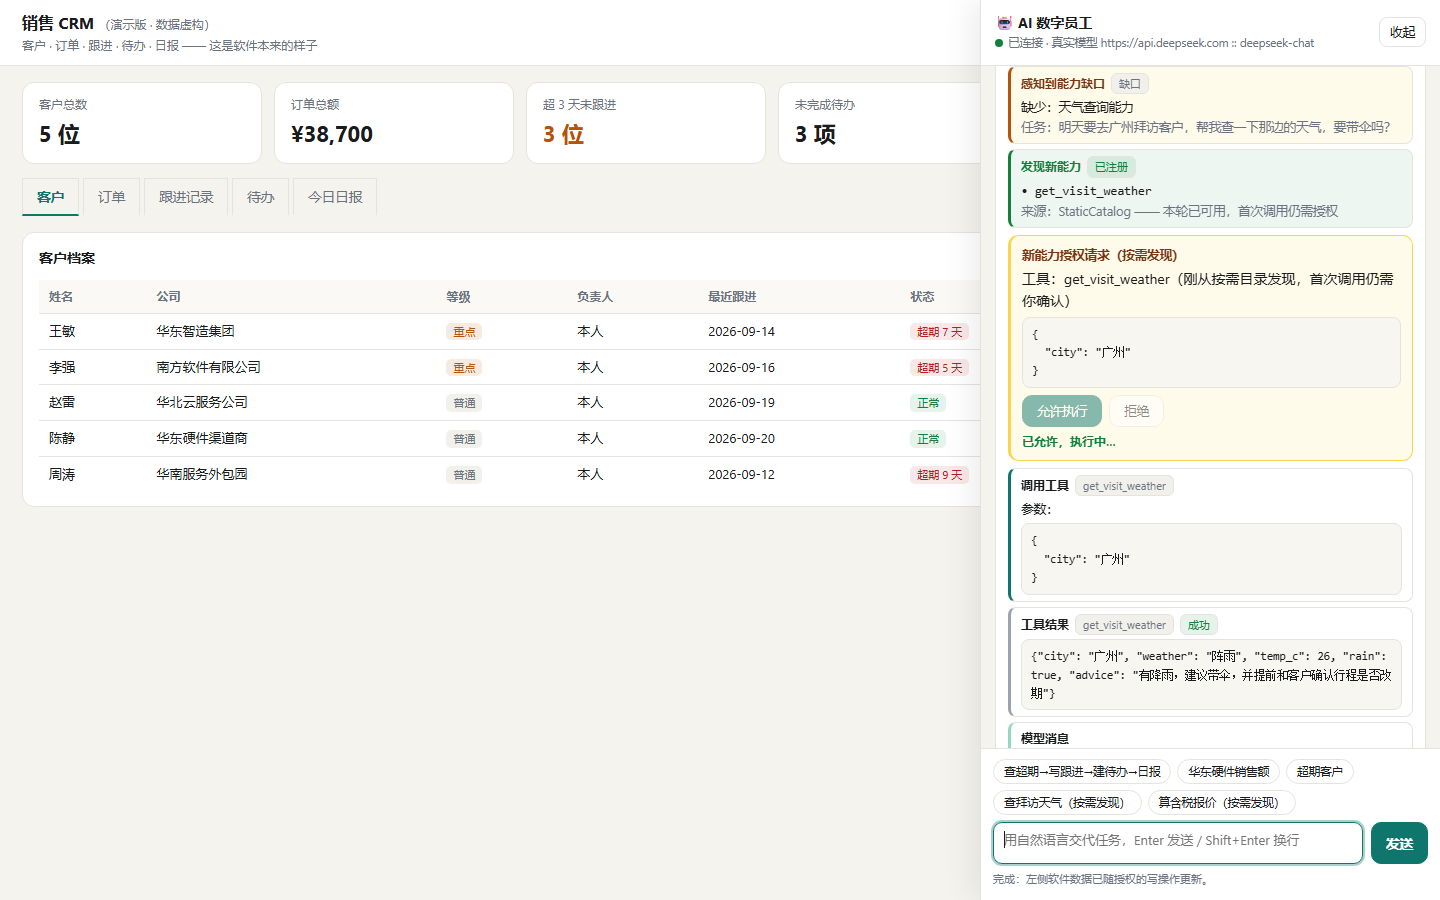
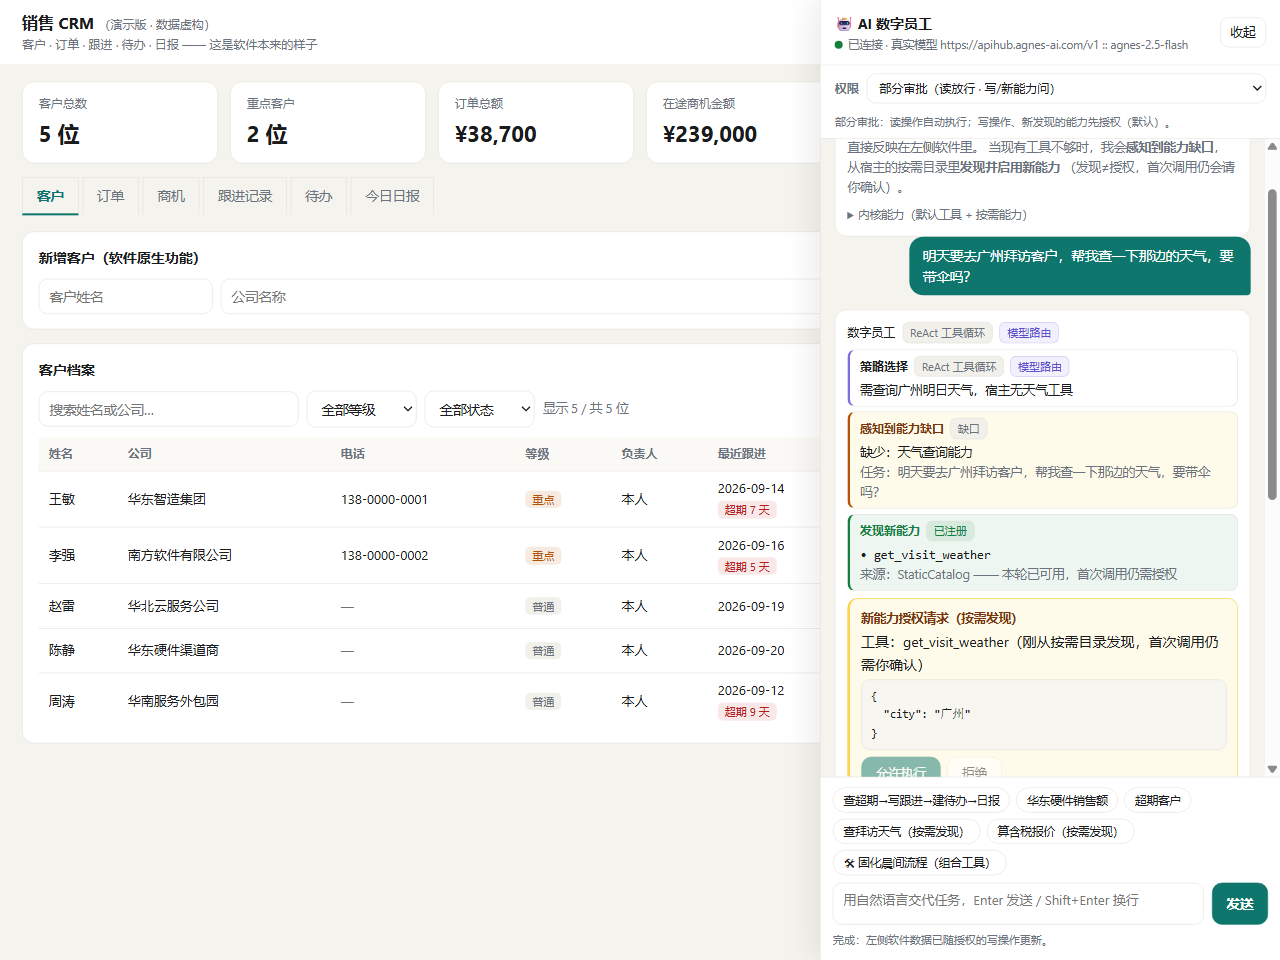
docs(host_e): 六视图/18 工具口径同步并更新门面图
- README、上海作品介绍、演示视频脚本：五视图改为六视图，12 工具(8读4写)改为 18 工具(10读8写)
- 重截 hoste-native（客户页新门面：6 KPI、筛选、编辑）与 hoste-discovery（Agnes 真实模型发现闭环）
- CHANGELOG 新增宿主 E 产品化增强条目
- 杭州冻结材料保持原样不动；上海作品介绍 PDF 已在 docs/exports 重建（不入库）

diff --git a/docs/competitions/shanghai/作品介绍.md b/docs/competitions/shanghai/作品介绍.md
@@ -86,9 +86,9 @@ YAI Agent Core（进程内库，内核本体零第三方硬依赖，dependencies
 | host_e 销售 CRM | 完整软件 | 零 AI 依赖可独立运行的菜单软件，同一业务对象零改造嵌入内核 |
 | host_f 能力发现 | 按需成长 | 离线确定性演示"缺口→发现→注册→本轮可用"，无需 Key |
 
-**host_e 是"存量软件零改造嵌入"的关键证据**：`crm_app.py` 是一个不导入任何 yai_core 的完整 CRM（12 个业务方法，8 读 4 写，JSON 持久化，菜单 CLI 与网页界面）；嵌入时把同一个 `SalesCrm` 对象交给 `AgentCore.auto`，唯一的嵌入点是 `agent_bridge.py`（业务文件零 yai_core 导入）——应用内置 Core 开关，可一键对比"有无 Core"；权限三档可切换，读操作自动执行、写操作弹授权，一句"查超期客户 → 写跟进 → 建待办 → 出日报"由内核自动规划并执行，模型还能把现有工具编排成组合工具，结果实时反映在原生界面。它同时提供终端与纯标准库实现的网页工作台（`http.server` + SSE，零第三方依赖），打开首先是软件本来的样子，AI 是可收起的右侧抽屉。
+**host_e 是"存量软件零改造嵌入"的关键证据**：`crm_app.py` 是一个不导入任何 yai_core 的完整 CRM（18 个业务方法，10 读 8 写，JSON 持久化，菜单 CLI 与网页界面）；嵌入时把同一个 `SalesCrm` 对象交给 `AgentCore.auto`，唯一的嵌入点是 `agent_bridge.py`（业务文件零 yai_core 导入）——应用内置 Core 开关，可一键对比"有无 Core"；权限三档可切换，读操作自动执行、写操作弹授权，一句"查超期客户 → 写跟进 → 建待办 → 出日报"由内核自动规划并执行，模型还能把现有工具编排成组合工具，结果实时反映在原生界面。它同时提供终端与纯标准库实现的网页工作台（`http.server` + SSE，零第三方依赖），打开首先是软件本来的样子，AI 是可收起的右侧抽屉。
 
-![图 1：销售 CRM 原生界面——不依赖 Core 也完整可用（客户 / 订单 / 跟进 / 待办 / 日报五个视图，数据均为虚构）](../../assets/hoste-native.png)
+![图 1：销售 CRM 原生界面——不依赖 Core 也完整可用（客户 / 订单 / 商机 / 跟进 / 待办 / 日报六个视图，数据均为虚构）](../../assets/hoste-native.png)
 
 ![图 2：同一 CRM 嵌入 Core 后，右侧 AI 抽屉感知能力缺口（琥珀）→ 按需发现天气工具（绿）→ 新能力授权（黄）→ 调用，左侧原生 CRM 同框联动](../../assets/hoste-discovery.png)
 

diff --git a/CHANGELOG.md b/CHANGELOG.md
@@ -12,6 +12,7 @@
 - **随包发布零依赖确定性模型 `ScriptedModel`**（`yai_core.llm`）：`pip install` 后无需 API Key、不联网即可在 30 秒内验证内核已正确嵌入并跑通工具调用；README 新增"路线 A：零 Key 验证嵌入"，并有 `tests/test_quickstart.py` 作为可执行回归。
 - **多模型兜底 `FallbackModelProvider`**：主模型 429 / 5xx / 超时 / 空响应时按序降级，带断路器冷却；只配置单个模型时默认休眠，运行时行为不变。
 - **数字员工宿主 E 网页工作台成品化**：原生 CRM 界面（客户/订单/跟进/待办/日报五视图）+ 可收起的 AI 数字员工抽屉；内置按需能力目录（拜访天气、含税报价），演示"缺口感知 → 发现 → 授权 → 本轮可用"闭环。
+- **数字员工宿主 E 产品化增强**：原生 CRM 扩为客户 / 订单 / 商机 / 跟进 / 待办 / 日报六个视图，内省自动发现 18 个业务工具（10 读 8 写）；新增客户搜索与等级/状态筛选、客户资料编辑、订单录入、商机看板（新建 + 阶段推进）等读写功能，全部不依赖 Core 即可使用，应用内开关一键对比有无 Core。
 - **ToolDiscovery 最小闭环（第 5 个 SPI）**：模型报出 `missing_capability` 后，内核向发现源（内置 `StaticCatalog`）要候选、去重注册、发 `tool_discovered` 事件，新工具本轮 ReAct 即可调用；发现源异常不致命，"能被发现不等于被授权执行"。新增宿主 F 离线演示。
 - **能力缺口感知**：LLM 路由输出 `missing_capability`，内核据此发 `capability_missing` 事件（规则路径、澄清、无工具部署不发）。
 - **`llm_router="auto"`**：按模型后端 `yai_live_router` 标记自动决定是否启用 LLM 分类，真实模型开启、离线脚本模型走规则。

diff --git a/docs/competitions/shanghai/演示视频脚本.md b/docs/competitions/shanghai/演示视频脚本.md
@@ -12,7 +12,7 @@
 | 段3 | Render `/health`、`/v1/tools`（本地工具 + 远程 MCP 工具，清单以实时返回为准） | 复用，证明在线可验证 |
 | 段4 | 一条 `curl` 跑 `/v1/agent/run`，自适应路由 react | 复用，证明可复现 |
 | 段5-1 | 业务本体 standalone 菜单，未接入 AI 也完整 | 复用，证明"不绑架业务" |
-| 段5-2 | 同一份业务代码自动发现 12 个工具、写操作问人 | 复用，证明零改造嵌入 |
+| 段5-2 | 同一份业务代码自动发现 18 个工具、写操作问人 | 复用，证明零改造嵌入 |
 | 段6 | 网页工作台复合任务闭环（73.5s） | 复用但**剪到约 50s**，去掉最细的操作 |
 | **段7（新录）** | 开源工程与治理 | **必须新录，约 45–60s** |
 
